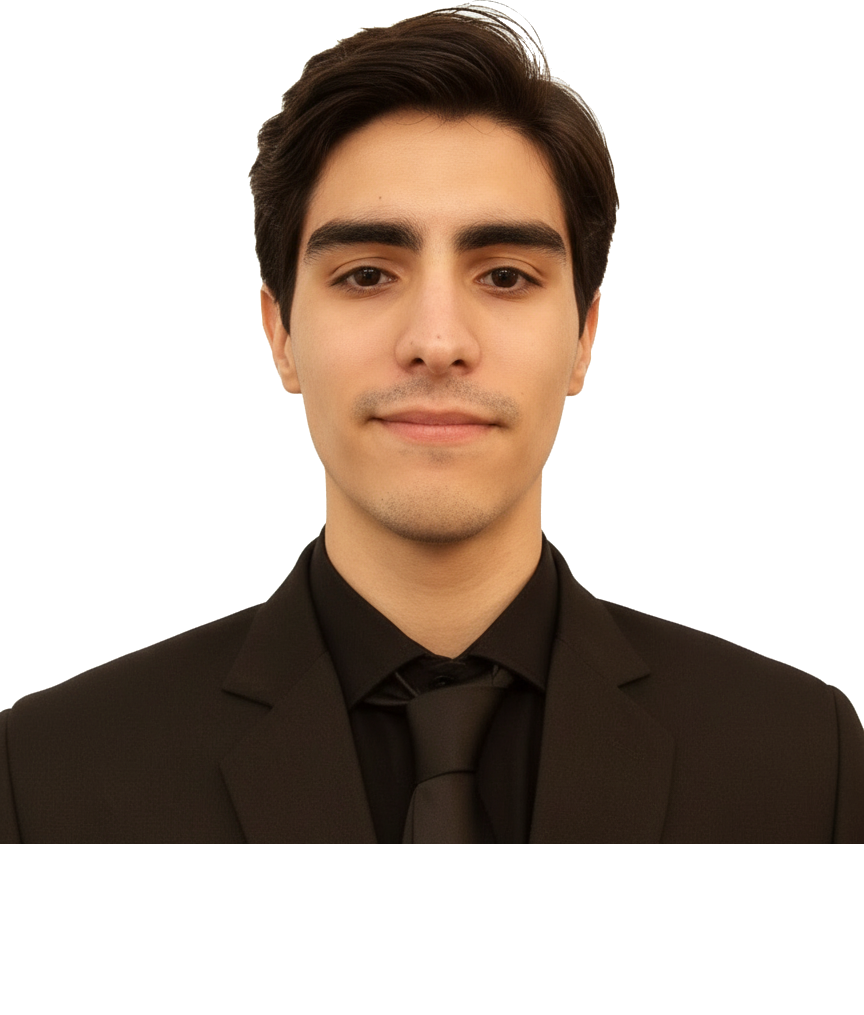
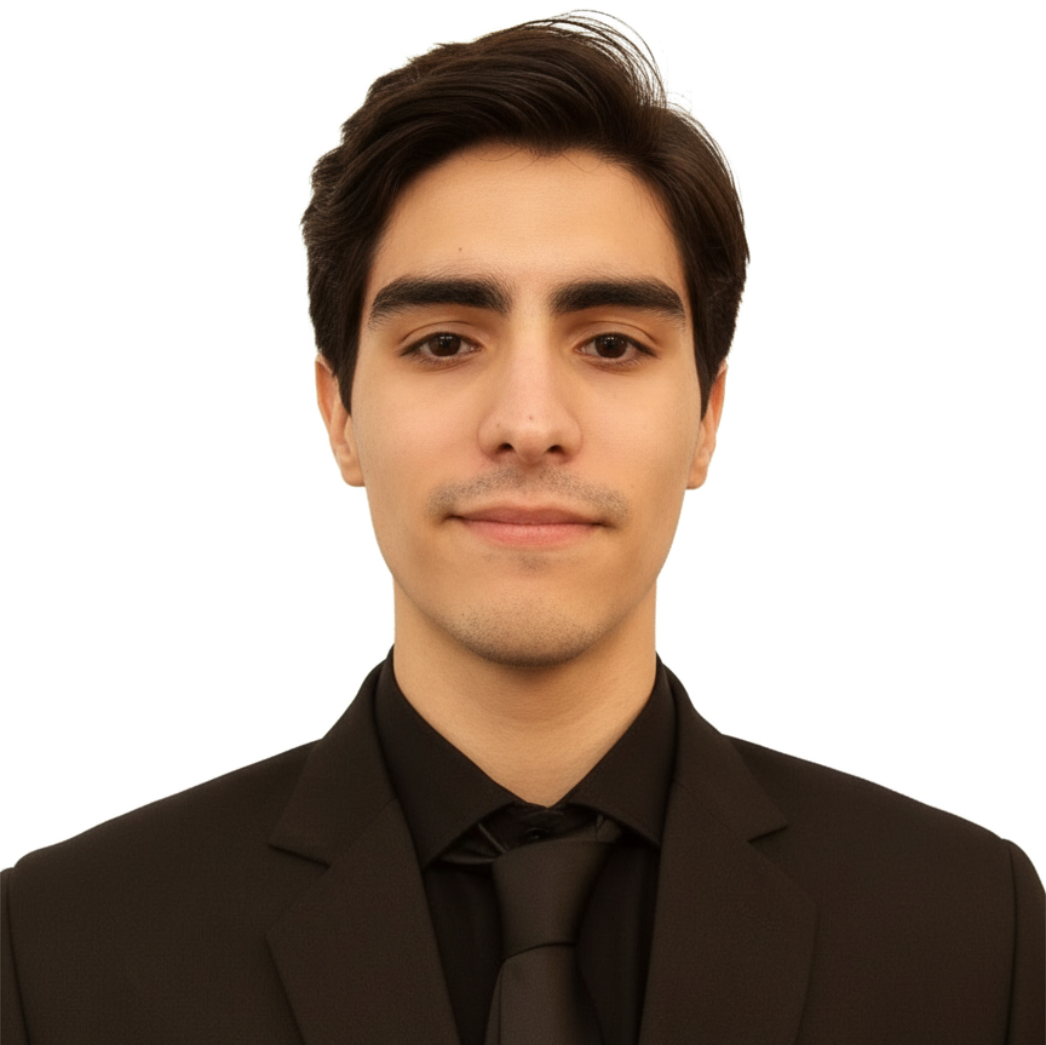
nuevo fondo

diff --git a/my-portfolio/src/portfolio.jsx b/my-portfolio/src/portfolio.jsx
@@ -184,7 +184,7 @@ export default function Portfolio() {
           handle="LahorcaKatzow"
           status="Online"
           contactText="Contact Me"
-          avatarUrl="https://github.com/NLahorcaKatzow/portfolio-web/blob/main/my-portfolio/src/assets/Fondo.png?raw=true"
+          avatarUrl="https://github.com/NLahorcaKatzow/portfolio-web/blob/main/my-portfolio/src/assets/Fondo2.png?raw=true"
           showUserInfo={true}
           enableTilt={true}
           behindGradient= "radial-gradient(circle,rgba(42, 55, 155, 1) 0%, rgba(147, 87, 199, 1) 51%, rgba(83, 101, 237, 1) 100%)"
